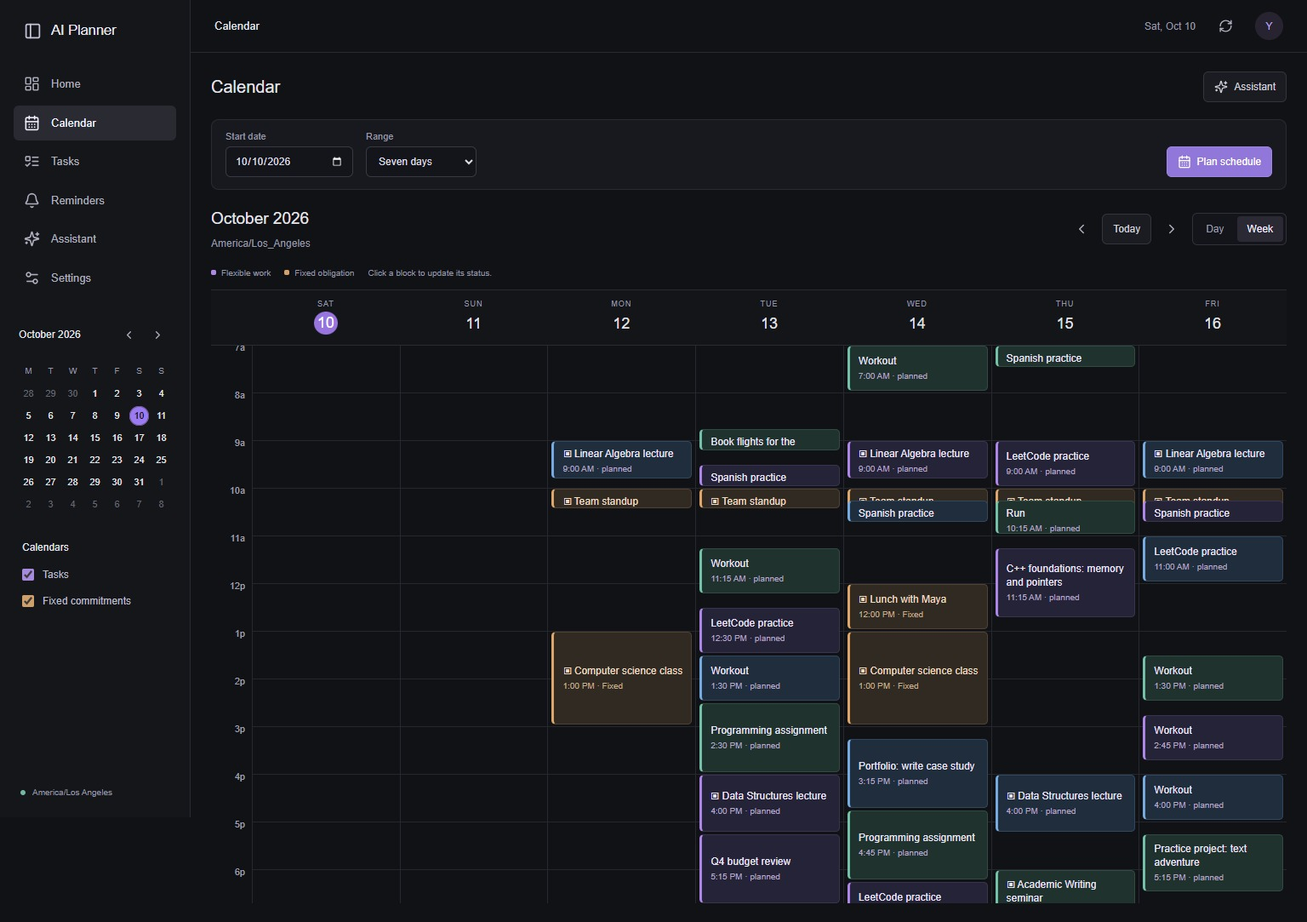
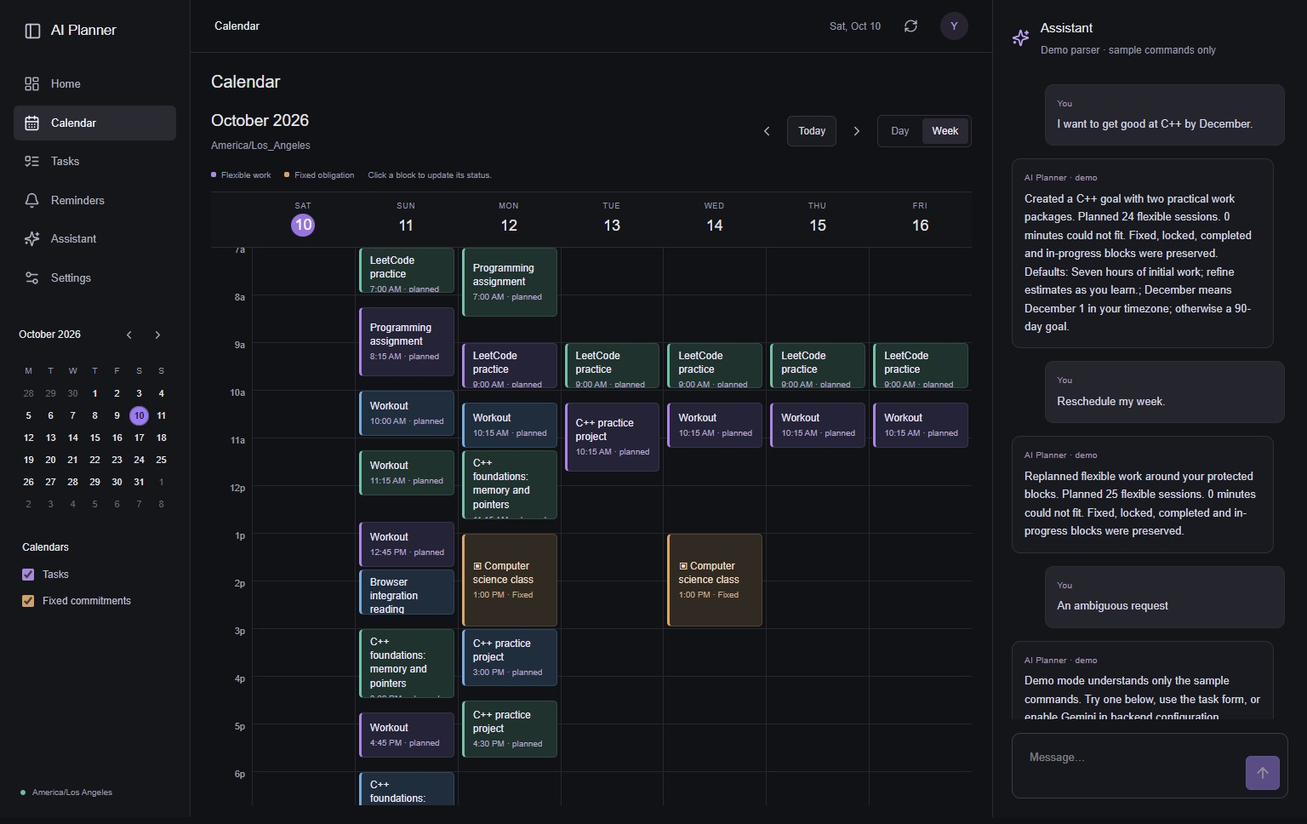
Restore calendar chat sidebar

diff --git a/frontend/app/globals.css b/frontend/app/globals.css
@@ -12,7 +12,6 @@ h1,h2,h3,p{margin:0}h1{font-family:inherit;font-size:35px;font-weight:400;line-h
 nav{display:flex;flex-direction:column;gap:6px}nav a{display:flex;align-items:center;gap:13px;padding:12px 15px;color:#999cae;border-radius:8px;font-size:13px}nav a:hover{background:#191a1f}nav a.active{background:#2b2d35;color:#ededf3;font-weight:600}nav .nav-new{font-size:9px;letter-spacing:1px;background:#2b2d35;border:1px solid #2b2d35;border-radius:4px;padding:1px 5px;margin-left:auto}
 .sidebar-bottom{margin-top:auto}.local-label{display:flex;align-items:center;gap:8px;font-size:10px;color:#999cae;margin:30px 12px 16px}.sidebar-bottom>p{font-family:inherit;font-style:italic;font-size:17px;line-height:1.6;color:#999cae;margin:0 12px 25px}.profile{display:flex;align-items:center;gap:10px;border-top:1px solid var(--line);padding:20px 8px 0}.profile>span,.avatar{display:flex;align-items:center;justify-content:center;width:33px;height:33px;background:#2b2d35;color:#c7c9d4;border-radius:50%;font-size:12px}.profile strong,.profile small{display:block}.profile strong{font-size:11px}.profile small{font-size:9px}
 main{margin-left:237px;width:calc(100% - 237px);min-width:0}.topbar{height:75px;border-bottom:1px solid var(--line);display:flex;justify-content:space-between;align-items:center;padding:0 42px;background:#191a1f}.topbar>span{font-size:12px;color:#999cae}.topbar>div{display:flex;align-items:center;gap:19px}.date-pill{font-size:11px;color:#999cae}.page-content{max-width:1390px;margin:0 auto;padding:37px 42px 25px}.eyebrow{font-size:9px;font-weight:600;letter-spacing:1.8px;color:#999cae;margin-bottom:13px}.page-heading{display:flex;align-items:center;justify-content:space-between;gap:24px;margin-bottom:32px}.page-heading p{color:var(--muted);font-size:12px;margin-top:9px}.button{display:inline-flex;align-items:center;justify-content:center;gap:8px;border-radius:7px;padding:10px 15px;font-size:11px;font-weight:600;border:1px solid transparent;white-space:nowrap}.primary{background:var(--green);color:white}.primary:hover{background:#ededf3}.secondary{background:#191a1f;border-color:#2b2d35;color:#c7c9d4}.secondary:hover{background:#191a1f}.icon-button{display:inline-flex;align-items:center;justify-content:center;width:29px;height:29px;border-radius:6px;color:#999cae;flex-shrink:0}.icon-button:hover{background:#191a1f}.icon-button.danger:hover{color:#c7c9d4;background:#191a1f}.text-link{display:inline-flex;align-items:center;gap:6px;color:#c7c9d4;font-size:10px;font-weight:600}.text-link:hover{color:#c7c9d4}.full{width:100%;margin-top:18px}
-.plan-toolbar{display:flex;justify-content:space-between;align-items:center;margin-bottom:23px;border:1px solid var(--line);border-radius:9px;padding:11px 15px;background:#191a1f;gap:14px}.plan-toolbar>div{display:flex;align-items:center;gap:15px;color:#999cae}.plan-toolbar label{display:flex;align-items:center;gap:10px;font-size:10px}.plan-toolbar input,.plan-toolbar select{width:auto;padding:5px 8px;font-size:11px;background:#191a1f;color:#c7c9d4;border:1px solid #2b2d35}
 .stats-grid{display:grid;grid-template-columns:repeat(3,1fr);gap:18px;margin-bottom:27px}.stat{padding:21px 24px;background:#191a1f;border:1px solid var(--line);border-radius:11px}.stat>span{display:flex;align-items:center;gap:8px;font-size:11px;color:#999cae}.stat>span svg{color:#999cae}.stat strong{display:block;font-size:29px;font-weight:500;letter-spacing:-1px;margin-top:12px}.stat em{font-size:17px;color:#444651;font-style:normal;letter-spacing:0}.stat>small{display:block;font-size:10px;margin-top:4px}
 .dashboard-grid{display:grid;grid-template-columns:minmax(0,1.9fr) minmax(260px,1fr);gap:23px}.stack{display:flex;flex-direction:column;gap:22px}.panel{background:var(--paper);border:1px solid var(--line);border-radius:11px;padding:23px}.panel-heading{display:flex;align-items:center;justify-content:space-between;gap:15px;margin-bottom:21px}.panel-heading p{font-size:10px;color:#999cae;margin-top:5px}.focus-panel{padding:25px 29px;background:#191a1f;border:1px solid #2b2d35;border-radius:11px;overflow:hidden;position:relative;min-height:215px}.focus-label{display:flex;align-items:center;gap:8px;font-size:9px;font-weight:600;letter-spacing:1.8px;color:#999cae}.status-dot{display:inline-block;width:6px;height:6px;border-radius:50%;background:#444651;flex-shrink:0}.status-dot.online{background:#999cae}.focus-panel h2{font-family:inherit;font-weight:400;font-size:27px;margin-top:18px;max-width:80%;line-height:1.2}.focus-panel p{font-size:11px;color:#999cae;margin-top:8px}.focus-panel>div:last-child{margin-top:21px}.focus-button{border-color:#444651;color:#c7c9d4;background:transparent;position:relative;z-index:1}.focus-art{position:absolute;right:30px;bottom:-20px;color:#444651;opacity:.65;transform:rotate(15deg)}
 .legend{display:flex;align-items:center;gap:16px;margin-bottom:12px;flex-wrap:wrap;font-size:9px;color:#999cae}.legend>span{display:flex;align-items:center;gap:6px}.legend i{height:6px;width:6px;border-radius:2px}.flexible-dot{background:#999cae}.fixed-dot{background:#444651}.session-card{display:flex;align-items:center;text-align:left;width:100%;padding:15px 3px;border-top:1px solid #191a1f;gap:15px}.session-card:hover{background:#191a1f}.session-time{font-size:11px;color:#999cae;width:70px;flex-shrink:0}.session-time small{display:block;font-size:9px;color:#444651;margin-top:3px}.session-line{width:3px;height:34px;border-radius:3px;background:#999cae;flex-shrink:0}.is-fixed .session-line{background:#999cae}.session-title{min-width:0;flex:1}.session-title strong{font-size:12px;display:block;font-weight:500}.session-title small{display:block;font-size:9px;margin-top:4px}.session-icon{color:#999cae}.session-card.completed .session-title strong{text-decoration:line-through;color:#999cae}.session-card.missed,.session-card.skipped{opacity:.55}
@@ -53,7 +52,6 @@ main{margin-left:224px;width:calc(100% - 224px)}
 .secondary,.secondary-button{background:#1b1c22;border:1px solid #34343e;color:#d0cfdb}.secondary:hover,.secondary-button:hover{background:#272730}
 .icon-button{color:#b0b0c0;width:32px;height:32px}.icon-button:hover{background:#292a33}.icon-button.danger:hover{background:#35222a;color:#ef9ba7}.text-link{color:#bda6ef;font-size:12px}.text-link:hover{color:#dfd0ff}
 .panel,.goal-card,.stat{background:var(--paper);border-color:var(--line);border-radius:9px}.panel-heading p{font-size:12px;color:var(--muted)}.panel-heading{margin-bottom:20px}
-.plan-toolbar{display:flex;align-items:flex-end;justify-content:space-between;gap:18px;background:var(--paper);border:1px solid var(--line);border-radius:9px;padding:14px 16px;margin-bottom:20px}.plan-fields{display:flex;align-items:flex-end;gap:12px}.plan-toolbar label{display:grid;gap:6px;color:var(--muted);font-size:11px}.plan-toolbar label span{line-height:1}.plan-toolbar input,.plan-toolbar select{width:auto;min-width:150px;min-height:36px;background:#14151a;border-color:#383943;color:#dedde7;font-size:12px;padding:8px 10px}.plan-toolbar select{min-width:130px}
 input,select,textarea{background:#14151a;color:#e0e0ea;border-color:#383943;font-size:13px}input:focus,select:focus,textarea:focus{border-color:#a58add;box-shadow:0 0 0 3px #a58add18}input[type=checkbox]{accent-color:#a58add}label{color:#b4b4c4;font-size:12px}label small{font-size:11px}
 .stat>span,.stat>span svg{color:var(--muted)}.stat>small{font-size:11px;color:var(--muted)}.stat strong{font-size:30px;font-weight:500}.stat em{color:#747686}
 .focus-panel{background:#252032;border-color:#40324f;min-height:180px}.focus-panel h2{font-size:24px}.focus-label{color:#b7a0d5;letter-spacing:.6px}.focus-panel p{color:#b8abc8;font-size:12px}.focus-button{border-color:#594568;color:#ddcbed}.status-dot.online{background:#75b6a1}
@@ -64,12 +62,12 @@ input,select,textarea{background:#14151a;color:#e0e0ea;border-color:#383943;font
 .segmented,.reminder-tabs{background:#14151a;border:1px solid #30313a;border-radius:6px;padding:3px;display:inline-flex;gap:3px}.segmented button,.reminder-tabs button{color:#9899aa;font-size:12px;padding:6px 12px;border-radius:4px}.segmented button.active,.reminder-tabs button.active{background:#2b2a34;color:#f0ebff;box-shadow:none}
 .calendar-panel{background:transparent;border:0;padding:0}.calendar-panel>.panel-heading{margin-bottom:18px}.calendar-panel h2{font-size:19px;font-weight:500}.calendar-panel .legend{font-size:10px;color:var(--muted)}.calendar-shell{margin:0}.calendar-head{background:#141519;border-color:var(--line);min-width:0}.calendar-head strong{font-size:18px}.calendar-head .today strong{background:#9874df;color:white}.calendar-grid{min-width:0}.calendar-scroll{max-height:calc(100dvh - 305px);min-height:300px}.calendar-day{border-color:#272831;background:repeating-linear-gradient(to bottom,transparent 0,transparent 55px,#25262e 55px,#25262e 56px)}.hour-labels{font-size:11px;color:#a0a0b1}.calendar-event{background:#252338;border:1px solid #3b3350;border-left:3px solid #af86e9;color:#ece5fa;border-radius:5px;padding:6px 10px;font-size:12px}.calendar-event small{font-size:10px;color:#b6a6c8}.calendar-event.is-fixed{background:#302a23;color:#f0dcc3;border-color:#514233;border-left-color:#e0a76a}.calendar-event.is-fixed small{color:#c5ae90}.calendar-event:nth-child(3n).is-flexible{background:#1f2d3c;border-color:#304860;border-left-color:#77ace2}.calendar-event:nth-child(3n + 1).is-flexible{background:#20322e;border-color:#314b43;border-left-color:#75c2aa}.calendar-event.skipped,.calendar-event.missed{background:#28262c;color:#b8aeb9}.calendar-event:hover{filter:brightness(1.2);z-index:4}.calendar-now{position:absolute;left:0;right:0;border-top:1px solid #ad8dff;pointer-events:none;z-index:5}.calendar-now:before{content:"";width:6px;height:6px;background:#ad8dff;border-radius:50%;position:absolute;left:-3px;top:-3px}
 .chat-panel{background:transparent;border:0;padding:0;min-height:560px}.chat-identity>span{background:transparent;color:#c2a4fa;padding:0}.chat-identity h2{font-size:15px;font-weight:500}.mode-badge{background:#25212e;border-color:#3e354e;color:#baa3d9;font-size:9px}.chat-messages{max-height:calc(100dvh - 330px);scrollbar-width:thin}.chat-message{background:#191a20;border-color:#303039;color:#d6d5e0;font-size:13px;max-width:96%;line-height:1.65;padding:14px}.chat-message.user{background:#25252e;border-color:#2c2c36;max-width:88%}.chat-message.assistant{background:#191a20}.chat-message small{color:#a69ab7;font-size:10px}.chat-composer{background:#17181d;border-color:#3b3b47;margin-top:16px;padding:9px}.chat-composer textarea{font-size:13px}.chat-footer{color:var(--muted);font-size:10px}.chat-welcome{padding:35px 8px}.chat-welcome>span{background:#24202d;color:#b799ec;width:45px;height:45px;border-radius:12px;margin-bottom:18px}.chat-welcome h2{font-size:19px;font-weight:500}.chat-welcome p{color:var(--muted);font-size:12px}.sample-commands button{background:#1c1c24;border-color:#35333f;font-size:12px}.sample-commands button:hover{background:#292431}.sample-commands svg{color:#ae93d6}
-.with-assistant main{width:calc(100% - 594px);margin-right:370px}.assistant-dock{position:fixed;right:0;top:0;bottom:0;width:370px;border-left:1px solid var(--line);background:#141519;padding:22px;overflow-y:auto}.assistant-dock .chat-layout{display:block;height:100%}.assistant-dock .chat-panel{height:100%;min-height:0}.assistant-dock .chat-panel>.panel-heading{min-height:40px;padding-right:28px;margin-bottom:16px;align-items:flex-start}.assistant-dock .chat-messages{max-height:none;min-height:0}.assistant-dock .chat-layout>aside{display:none}.assistant-dock .chat-footer{display:none}.assistant-dock .mode-badge{display:none}.dock-close{position:absolute;right:12px;top:19px;z-index:1}
+.with-assistant main{width:calc(100% - 594px);margin-right:370px}.assistant-dock{position:fixed;right:0;top:0;bottom:0;width:370px;border-left:1px solid var(--line);background:#141519;padding:22px;overflow-y:auto}.assistant-dock .chat-layout{display:block;height:100%}.assistant-dock .chat-panel{height:100%;min-height:0}.assistant-dock .chat-panel>.panel-heading{min-height:40px;margin-bottom:16px;align-items:flex-start}.assistant-dock .chat-messages{max-height:none;min-height:0}.assistant-dock .chat-layout>aside{display:none}.assistant-dock .chat-footer{display:none}.assistant-dock .mode-badge{display:none}
 .view-calendar .page-content{padding:22px 24px}.view-calendar .page-heading{margin-bottom:20px}.view-calendar .page-heading h1{font-size:20px}
 .connection p,.obligation-row p{font-size:12px;color:var(--muted)}.settings-layout details{color:#b8b3c9}.suggestion{background:#242032;border-color:#433552}.suggestion>svg{color:#b69cdd}.suggestion p{color:#b5a6c8}.modal-backdrop{background:#08080bbb;backdrop-filter:blur(6px)}.modal{background:#1b1b23;border-color:#3e3b49;box-shadow:0 25px 90px #0008}.session-detail>h2{font-size:25px;font-weight:500}.session-detail>p{color:#b2a8c2}.form-grid{gap:16px}
 .reminders-view{max-width:860px;margin:0 auto}.reminder-form{background:var(--paper);padding:22px;border:1px solid var(--line);border-radius:9px}.reminder-form>label{margin-bottom:10px}.reminder-form-bottom{display:flex;align-items:flex-end;justify-content:space-between;gap:20px;margin-top:18px}.reminder-form-bottom label span{color:var(--muted);font-size:10px}.reminder-form-actions{display:flex;gap:8px}.reminder-tabs{margin:24px 0 12px}.reminder-row{display:flex;align-items:center;gap:12px;border-bottom:1px solid var(--line);padding:18px 4px}.reminder-info{flex:1;min-width:0}.reminder-info strong{font-size:13px;font-weight:500;overflow-wrap:anywhere}.reminder-info span{display:block;font-size:11px;color:var(--muted);margin-top:5px}.reminder-info .overdue{color:#e7ac9d}.reminder-row.completed strong{text-decoration:line-through;color:var(--muted)}.reminder-note{color:var(--muted);font-size:11px;margin-top:22px}.empty-state{text-align:center;padding:45px;color:var(--muted)}.empty-state svg{margin:0 auto 12px}.undo-message{display:flex;align-items:center;gap:15px;padding:12px;background:#282333;border:1px solid #463857;border-radius:7px;margin-top:15px}.undo-message>button{color:#d4b5ff}.error-message{padding:12px;border:1px solid;border-radius:6px;margin-top:14px}
-@media(max-width:1250px){.sidebar{width:200px;padding:22px 12px}main{margin-left:200px;width:calc(100% - 200px)}.with-assistant main{width:calc(100% - 530px);margin-right:330px}.assistant-dock{width:330px;padding:18px}.page-content{padding:24px}.view-calendar .plan-toolbar{flex-wrap:wrap}.view-calendar .calendar-controls{gap:3px}.view-calendar .calendar-panel>.panel-heading{flex-wrap:wrap}.view-calendar .calendar-scroll{max-height:calc(100dvh - 330px)}}
+@media(max-width:1250px){.sidebar{width:200px;padding:22px 12px}main{margin-left:200px;width:calc(100% - 200px)}.with-assistant main{width:calc(100% - 530px);margin-right:330px}.assistant-dock{width:330px;padding:18px}.page-content{padding:24px}.view-calendar .calendar-controls{gap:3px}.view-calendar .calendar-panel>.panel-heading{flex-wrap:wrap}.view-calendar .calendar-scroll{max-height:calc(100dvh - 265px)}}
 @media(max-width:1050px){.sidebar{width:72px;padding:20px 9px}.brand{font-size:0;margin:0 auto 24px}.mini-calendar,.sidebar-calendars,.sidebar-bottom{display:none}nav a{font-size:0;justify-content:center;padding:12px 8px}nav .nav-new{display:none}main{margin-left:72px;width:calc(100% - 72px)}.with-assistant main{width:calc(100% - 402px);margin-right:330px}.dashboard-grid{grid-template-columns:1fr}.settings-layout{grid-template-columns:1fr}}
-@media(max-width:800px){.with-assistant main{width:calc(100% - 72px);margin-right:0}.assistant-dock{box-shadow:-15px 0 70px #0008;z-index:20;width:min(390px,calc(100% - 72px))}.with-assistant .page-heading{padding-right:0}.plan-toolbar{flex-wrap:wrap}.calendar-head,.calendar-grid{min-width:0}.calendar-shell{overflow-x:auto}.calendar-head:has(>div:nth-child(3)),.calendar-grid:has(>.calendar-day:nth-child(3)){min-width:790px}.calendar-scroll{max-height:620px}.chat-layout{grid-template-columns:1fr}.chat-layout>aside{display:block}.goals-grid{grid-template-columns:repeat(2,minmax(0,1fr))}}
-@media(max-width:600px){.sidebar{position:sticky;top:0;width:100%;height:58px;padding:8px 12px;flex-direction:row;align-items:center;background:#15161a;overflow:visible}.brand{margin:0 12px 0 0}.brand>span:first-child{width:25px}nav{flex-direction:row;gap:2px;flex:1;justify-content:space-between}nav a{padding:8px;width:35px;height:36px}nav a svg{width:18px}.app-shell{display:block}main,.with-assistant main{margin:0;width:100%}.assistant-dock{top:58px;width:100%;padding:20px;bottom:0}.topbar{height:47px;padding:0 18px}.page-content,.view-calendar .page-content{padding:20px 16px}.page-heading{margin-bottom:20px}.page-heading h1{font-size:22px}.stats-grid{gap:8px}.stat{padding:14px 10px}.stat>span{font-size:10px}.stat strong{font-size:24px}.stat>small{font-size:10px}.panel{padding:17px}.calendar-panel{padding:0}.calendar-shell{margin:0}.calendar-controls{flex-wrap:wrap;gap:4px}.view-calendar .calendar-scroll{max-height:550px}.calendar-panel>.panel-heading{gap:12px}.plan-toolbar{align-items:stretch;padding:14px;flex-direction:column}.plan-fields{display:grid;grid-template-columns:minmax(0,1fr) minmax(0,1fr);width:100%}.plan-toolbar input,.plan-toolbar select{width:100%;min-width:0}.plan-toolbar .button{align-self:flex-end}.goals-grid{grid-template-columns:1fr}.chat-panel{min-height:520px}.task-row{gap:8px}.task-info strong{font-size:12px}.task-info small{font-size:10px}.task-row .priority-tag{display:none}.reminder-form-bottom{flex-direction:column;align-items:stretch}.reminder-form-actions{justify-content:flex-end}.form-grid{gap:12px}.modal{padding:20px}.modal-backdrop{padding:12px}.chat-messages{max-height:500px}.page-heading>.button{font-size:11px}.settings-layout{gap:18px}}
+@media(max-width:800px){.with-assistant main{width:calc(100% - 72px);margin-right:0}.assistant-dock{position:relative;inset:auto;margin-left:72px;width:calc(100% - 72px);min-height:560px;border-left:0;border-top:1px solid var(--line);box-shadow:none}.with-assistant .page-heading{padding-right:0}.calendar-head,.calendar-grid{min-width:0}.calendar-shell{overflow-x:auto}.calendar-head:has(>div:nth-child(3)),.calendar-grid:has(>.calendar-day:nth-child(3)){min-width:790px}.calendar-scroll{max-height:620px}.chat-layout{grid-template-columns:1fr}.chat-layout>aside{display:block}.goals-grid{grid-template-columns:repeat(2,minmax(0,1fr))}}
+@media(max-width:600px){.sidebar{position:sticky;top:0;width:100%;height:58px;padding:8px 12px;flex-direction:row;align-items:center;background:#15161a;overflow:visible}.brand{margin:0 12px 0 0}.brand>span:first-child{width:25px}nav{flex-direction:row;gap:2px;flex:1;justify-content:space-between}nav a{padding:8px;width:35px;height:36px}nav a svg{width:18px}.app-shell{display:block}main,.with-assistant main{margin:0;width:100%}.assistant-dock{margin-left:0;width:100%;padding:20px}.topbar{height:47px;padding:0 18px}.page-content,.view-calendar .page-content{padding:20px 16px}.page-heading{margin-bottom:20px}.page-heading h1{font-size:22px}.stats-grid{gap:8px}.stat{padding:14px 10px}.stat>span{font-size:10px}.stat strong{font-size:24px}.stat>small{font-size:10px}.panel{padding:17px}.calendar-panel{padding:0}.calendar-shell{margin:0}.calendar-controls{flex-wrap:wrap;gap:4px}.view-calendar .calendar-scroll{max-height:550px}.calendar-panel>.panel-heading{gap:12px}.goals-grid{grid-template-columns:1fr}.chat-panel{min-height:520px}.task-row{gap:8px}.task-info strong{font-size:12px}.task-info small{font-size:10px}.task-row .priority-tag{display:none}.reminder-form-bottom{flex-direction:column;align-items:stretch}.reminder-form-actions{justify-content:flex-end}.form-grid{gap:12px}.modal{padding:20px}.modal-backdrop{padding:12px}.chat-messages{max-height:500px}.page-heading>.button{font-size:11px}.settings-layout{gap:18px}}
 @media(prefers-reduced-motion:reduce){.spin{animation:none}*{scroll-behavior:auto!important}}

diff --git a/frontend/components/workspace.tsx b/frontend/components/workspace.tsx
@@ -42,10 +42,9 @@ export default function Workspace({ view }: { view: View }) {
   const [editingGoal, setEditingGoal] = useState<Goal | null | undefined>(undefined);
   const [day, setDay] = useState("");
   const [calendarMode, setCalendarMode] = useState<"day" | "week">("day");
-  const [assistantOpen, setAssistantOpen] = useState(false);
   const [showFlexible, setShowFlexible] = useState(true);
   const [showFixed, setShowFixed] = useState(true);
-  const [horizon, setHorizon] = useState(7);
+  const horizon = 7;
   const [filter, setFilter] = useState("pending");
   const [draft, setDraft] = useState("");
   const [now, setNow] = useState(() => new Date());
@@ -77,12 +76,6 @@ export default function Workspace({ view }: { view: View }) {
     catch (err) { setError(err instanceof Error ? err.message : "Something went wrong."); }
     finally { setBusy(false); }
   }
-  async function generate() {
-    await mutate(async () => {
-      const result = await api<PlanResult>("/schedule/plan", "POST", { start_date: day, days: horizon });
-      setUnscheduled(result.unscheduled);
-    }, "Plan updated.");
-  }
   async function send(event: React.FormEvent) {
     event.preventDefault(); if (!draft.trim()) return;
     setBusy(true); setError(""); setNotice("");
@@ -107,7 +100,7 @@ export default function Workspace({ view }: { view: View }) {
 
   const assistant = system && (<div className="chat-layout"><section className="panel chat-panel"><div className="panel-heading"><div className="chat-identity"><span><Sparkles size={21} /></span><div><h2>Assistant</h2><p>{system.ai_mode === "demo" ? "Demo parser · sample commands only" : `Gemini · ${system.gemini_model}`}</p></div></div><span className="mode-badge">{system.ai_mode}</span></div><div className="chat-messages" aria-live="polite">{messages.length ? messages.map(m => <div key={m.id} className={`chat-message ${m.role}`}><small>{m.role === "user" ? "You" : m.mode === "demo" ? "AI Planner · demo" : "AI Planner · Gemini"}</small><p>{m.content}</p></div>) : <div className="chat-welcome"><span><Sparkles size={34} /></span><h2>Plan or adjust your schedule</h2><p>Add tasks, move sessions, or replan your week.</p><small>{system.ai_mode === "demo" ? "This demo uses limited deterministic patterns. Start with a sample on the right." : "Your assistant interprets requests. A constraint solver builds the schedule."}</small></div>}{busy && <div className="chat-message assistant"><LoaderCircle size={16} className="spin" />Interpreting and checking your plan…</div>}</div><form className="chat-composer" onSubmit={send}><textarea aria-label="Message your assistant" placeholder="Message…" value={draft} maxLength={4000} onChange={e => setDraft(e.target.value)} rows={2} /><button className="button primary" aria-label="Send message" disabled={busy || !draft.trim()}><ArrowUp size={20} /></button></form><p className="chat-footer">Actions are validated before they change your plan. Ambiguous requests ask for clarification.</p></section><aside className="stack"><section className="panel"><h2>Sample commands</h2><p className="muted">{system.ai_mode === "demo" ? "Exact sample commands for this demo" : "Try a goal, routine, or change of plans"}</p><div className="sample-commands">{system.demo_commands.map(command => <button key={command} onClick={() => setDraft(command)}>{command}<ArrowUp size={13} /></button>)}</div></section></aside></div>);
 
-  return <div className={`app-shell view-${view} ${view === "calendar" && assistantOpen ? "with-assistant" : ""}`}>
+  return <div className={`app-shell view-${view} ${view === "calendar" ? "with-assistant" : ""}`}>
     <aside className="sidebar">
       <Link className="brand" href="/"><span><PanelLeft size={21} /></span>AI Planner</Link>
 
@@ -119,12 +112,11 @@ export default function Workspace({ view }: { view: View }) {
     <main>
       <header className="topbar"><span>{navigation.find(n => n.view === view)?.label}</span><div><span className="date-pill">{dayLabel(today)}</span><button className="icon-button" aria-label="Refresh data" disabled={busy} onClick={() => mutate(refresh, "Updated from the backend.")}><RefreshCw size={17} /></button><span className="avatar">Y</span></div></header>
       <div className="page-content">
-        <div className="page-heading"><h1>{titles[view]}</h1>{view === "calendar" && <button className="button secondary" aria-pressed={assistantOpen} onClick={() => setAssistantOpen(!assistantOpen)}><Sparkles size={16} />Assistant</button>}{view === "tasks" && <button className="button primary" onClick={() => setEditingTask(null)}><Plus size={16} />New task</button>}</div>
+        <div className="page-heading"><h1>{titles[view]}</h1>{view === "tasks" && <button className="button primary" onClick={() => setEditingTask(null)}><Plus size={16} />New task</button>}</div>
         {error && <div className="alert error" role="alert"><span>{error}</span><button aria-label="Dismiss error" onClick={() => setError("")}><X size={16} /></button></div>}
         {notice && <div className="alert success" role="status"><Check size={17} /><span>{notice}</span><button aria-label="Dismiss notice" onClick={() => setNotice("")}><X size={16} /></button></div>}
         {loading ? <div className="loading"><LoaderCircle className="spin" size={26} /><p>Opening your workspace…</p></div> : !preferences || !system ? <section className="panel empty"><h2>The backend needs your attention</h2><p>Start FastAPI and apply the database migrations, then refresh.</p><button className="button primary" onClick={() => mutate(refresh, "Connected.")}>Try again</button></section> : <>
           {suggestions.length > 0 && <section className="suggestions">{suggestions.map(s => <div className="suggestion" key={s.id}><Sparkles size={20} /><div><strong>Suggested change</strong><p>{s.message}</p></div><button className="button secondary" disabled={busy} onClick={() => mutate(async () => { const result = await api<{ plan: PlanResult | null }>(`/suggestions/${s.id}/decision`, "POST", { decision: "confirm" }); if (result.plan) setUnscheduled(result.plan.unscheduled); }, "Confirmed and replanned remaining work.")}>Reschedule</button><button className="icon-button" aria-label="Dismiss suggestion" disabled={busy} onClick={() => mutate(() => api(`/suggestions/${s.id}/decision`, "POST", { decision: "dismiss" }), "Suggestion dismissed.")}><X size={17} /></button></div>)}</section>}
-          {view === "calendar" && <section className="plan-toolbar" aria-label="Plan schedule"><div className="plan-fields"><label><span>Start date</span><input aria-label="Plan start date" type="date" value={day} onChange={e => setDay(e.target.value)} /></label><label><span>Range</span><select aria-label="Planning horizon" value={horizon} onChange={e => setHorizon(Number(e.target.value))}><option value={1}>One day</option><option value={7}>Seven days</option><option value={14}>Two weeks</option></select></label></div><button className="button primary" disabled={busy || !day} onClick={generate}>{busy ? <LoaderCircle className="spin" size={16} /> : <CalendarDays size={16} />}Plan schedule</button></section>}
           {unscheduled.length > 0 && <details className="capacity-note" open><summary>{hours(unscheduled.reduce((n, u) => n + u.minutes, 0))} of work needs more space</summary>{unscheduled.map((u, i) => <p key={i}><strong>{u.title} · {hours(u.minutes)}</strong> — {u.reason}</p>)}</details>}
           {view === "dashboard" && <>
             <div className="stats-grid"><div className="stat"><span><Clock3 size={18} />Remaining today</span><strong>{hours(minutesPlanned)}</strong><small>Flexible work remaining today</small></div><div className="stat"><span><CheckCheck size={18} />Completed</span><strong>{completedToday.length}<em> / {workToday.length}</em></strong><small>Work sessions completed</small></div><div className="stat"><span><Target size={18} />Pending tasks</span><strong>{pending.length}</strong><small>Pending tasks across {goals.length} goals</small></div></div>
@@ -152,7 +144,7 @@ export default function Workspace({ view }: { view: View }) {
 
       </div>
     </main>
-    {view === "calendar" && assistantOpen && <aside className="assistant-dock"><button className="icon-button dock-close" aria-label="Close assistant" onClick={() => setAssistantOpen(false)}><X size={18} /></button>{system && preferences ? assistant : <div className="empty">Connect to the backend to use the assistant.</div>}</aside>}
+    {view === "calendar" && <aside className="assistant-dock" aria-label="Schedule assistant">{system && preferences ? assistant : <div className="empty">Connect to the backend to use the assistant.</div>}</aside>}
     {editingTask !== undefined && <div className="modal-backdrop"><section className="modal" role="dialog" aria-modal="true" aria-labelledby="task-dialog-title"><div className="panel-heading"><h2 id="task-dialog-title">{editingTask ? "Edit task" : "New task"}</h2><button className="icon-button" aria-label="Close task form" onClick={() => setEditingTask(undefined)}><X size={19} /></button></div><TaskForm task={editingTask || undefined} goals={goals} timezone={timezone} onCancel={() => setEditingTask(undefined)} onSave={async values => { await api(editingTask ? `/tasks/${editingTask.id}` : "/tasks", editingTask ? "PATCH" : "POST", values); setEditingTask(undefined); await refresh(); setNotice("Task saved. Open Calendar to update your schedule."); }} /></section></div>}
     {editingGoal !== undefined && <div className="modal-backdrop"><section className="modal" role="dialog" aria-modal="true" aria-labelledby="goal-dialog-title"><div className="panel-heading"><h2 id="goal-dialog-title">{editingGoal ? "Edit goal" : "New goal"}</h2><button className="icon-button" aria-label="Close goal form" onClick={() => setEditingGoal(undefined)}><X size={19} /></button></div><form className="form-grid" onSubmit={event => { event.preventDefault(); const form = new FormData(event.currentTarget); mutate(async () => { await api(editingGoal ? `/goals/${editingGoal.id}` : "/goals", editingGoal ? "PUT" : "POST", { title: form.get("title"), description: form.get("description"), deadline: form.get("deadline") ? zonedISO(String(form.get("deadline")), "23:59", timezone) : null }); setEditingGoal(undefined); }, "Goal saved."); }}><label className="span-two">Goal title<input name="title" required maxLength={200} defaultValue={editingGoal?.title} autoFocus /></label><label className="span-two">Description<textarea name="description" maxLength={4000} defaultValue={editingGoal?.description} rows={3} /></label><label className="span-two">Target date<input type="date" name="deadline" defaultValue={editingGoal?.deadline ? dateKey(editingGoal.deadline, timezone) : ""} /></label><button className="button primary span-two" disabled={busy}>Save goal</button></form></section></div>}
     {selected && <div className="modal-backdrop"><section className="modal session-detail" role="dialog" aria-modal="true" aria-labelledby="session-dialog-title"><div className="panel-heading"><span className="mode-badge">{selected.obligation_id ? "Fixed obligation" : selected.status}</span><button className="icon-button" aria-label="Close session details" onClick={() => setSelected(null)}><X size={19} /></button></div><h2 id="session-dialog-title">{selected.title}</h2><p>{dayLabel(dateKey(selected.starts_at, timezone))} · {clock(selected.starts_at, timezone)}–{clock(selected.ends_at, timezone)}</p><p className="muted">{hours(duration(selected))} · {selected.locked ? "Protected from rescheduling" : "Flexible session"}</p>{selected.task_id && selected.status === "planned" && <><label>Actual minutes (for completion)<input id="actual-minutes" type="number" min={0} max={duration(selected)} defaultValue={duration(selected)} /></label><div className="session-actions"><button className="button primary" disabled={busy} onClick={() => mutate(async () => { const input = document.getElementById("actual-minutes") as HTMLInputElement; await api(`/sessions/${selected.id}`, "PATCH", { status: "completed", actual_minutes: Number(input.value) }); setSelected(null); }, "Session completed. Remaining work is ready to plan.")}><Check size={16} />Complete</button>{(["skipped", "missed"] as const).map(status => <button key={status} className="button secondary" disabled={busy} onClick={() => mutate(async () => { await api(`/sessions/${selected.id}`, "PATCH", { status }); setSelected(null); }, "Session status saved. Open Calendar to update the remaining work.")}>Mark {status}</button>)}</div><button className="text-link" disabled={busy} onClick={() => mutate(async () => { const updated = await api<Session>(`/sessions/${selected.id}`, "PATCH", { locked: !selected.locked }); setSelected(updated); }, selected.locked ? "Session unlocked." : "Session protected.")}><LockKeyhole size={15} />{selected.locked ? "Unlock session" : "Keep this time fixed"}</button></>}</section></div>}

diff --git a/frontend/e2e/workflows.spec.ts b/frontend/e2e/workflows.spec.ts
@@ -17,11 +17,11 @@ test("real API: goal through chat, calendar, CRUD and responsive dashboard", asy
   await page.getByRole("button", { name: "Create task", exact: true }).click();
   await expect(page.locator(".task-row").filter({ hasText: taskName })).toBeVisible();
   await page.goto("/calendar");
-  await expect(page.getByRole("button", { name: "Plan schedule" })).toBeVisible();
-  await page.getByRole("button", { name: "Plan schedule" }).click();
-  await expect(page.getByRole("status")).toContainText("Plan updated", { timeout: 45000 });
+  await expect(page.getByRole("complementary", { name: "Schedule assistant" })).toBeVisible();
+  await page.getByRole("textbox", { name: "Message your assistant" }).fill("Reschedule my week.");
+  await page.getByRole("button", { name: "Send message" }).click();
   await page.getByRole("button", { name: "Week", exact: true }).click();
-  await expect(page.locator(".calendar-event").first()).toBeVisible();
+  await expect(page.locator(".calendar-event").first()).toBeVisible({ timeout: 45000 });
   await page.locator(".calendar-event.is-flexible.planned").first().click();
   await expect(page.getByRole("dialog")).toBeVisible();
   await page.getByRole("button", { name: "Complete", exact: true }).click();
@@ -39,7 +39,7 @@ test("real API: goal through chat, calendar, CRUD and responsive dashboard", asy
   await page.screenshot({ path: "test-results/dashboard.png", fullPage: true });
   await page.setViewportSize({ width: 390, height: 844 });
   await page.getByRole("link", { name: "Calendar", exact: true }).click();
-  await expect(page.getByRole("button", { name: "Plan schedule" })).toBeVisible();
+  await expect(page.getByRole("complementary", { name: "Schedule assistant" })).toBeVisible();
   expect(await page.evaluate(() => document.documentElement.scrollWidth <= window.innerWidth)).toBe(true);
   await page.screenshot({ path: "test-results/mobile.png", fullPage: true });
 });
